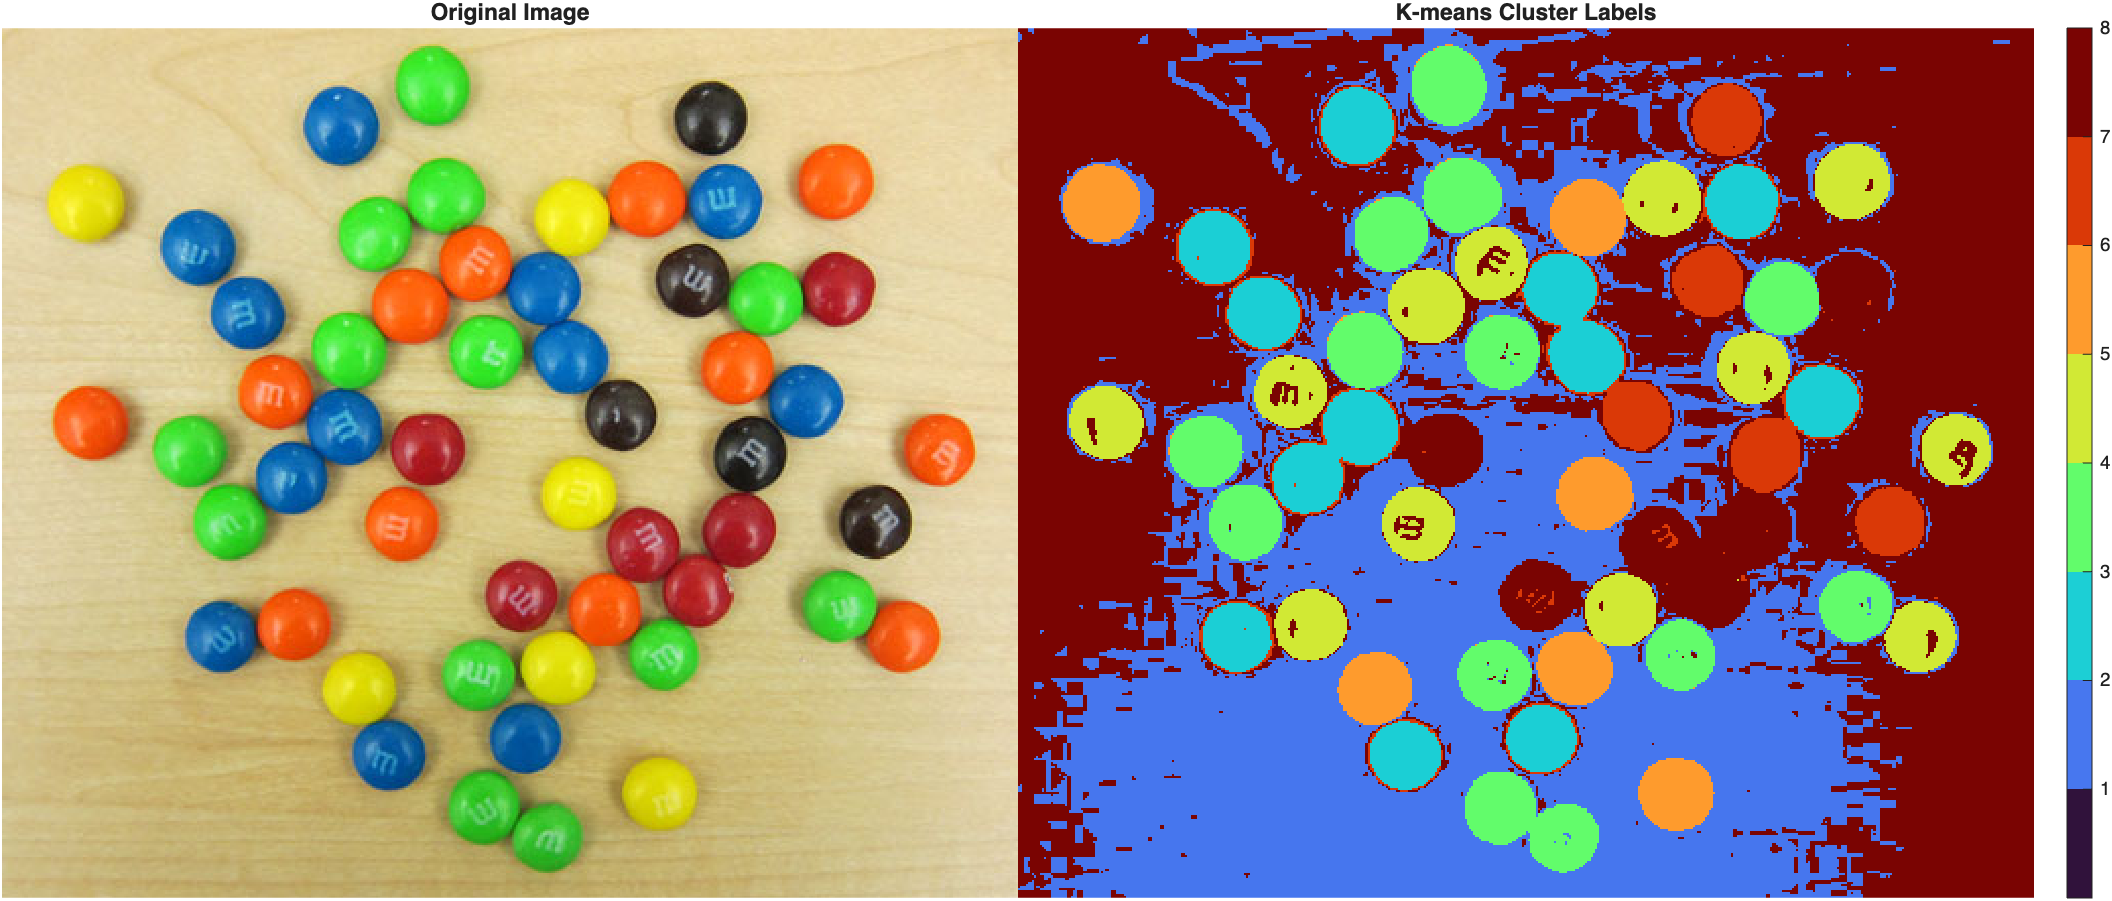
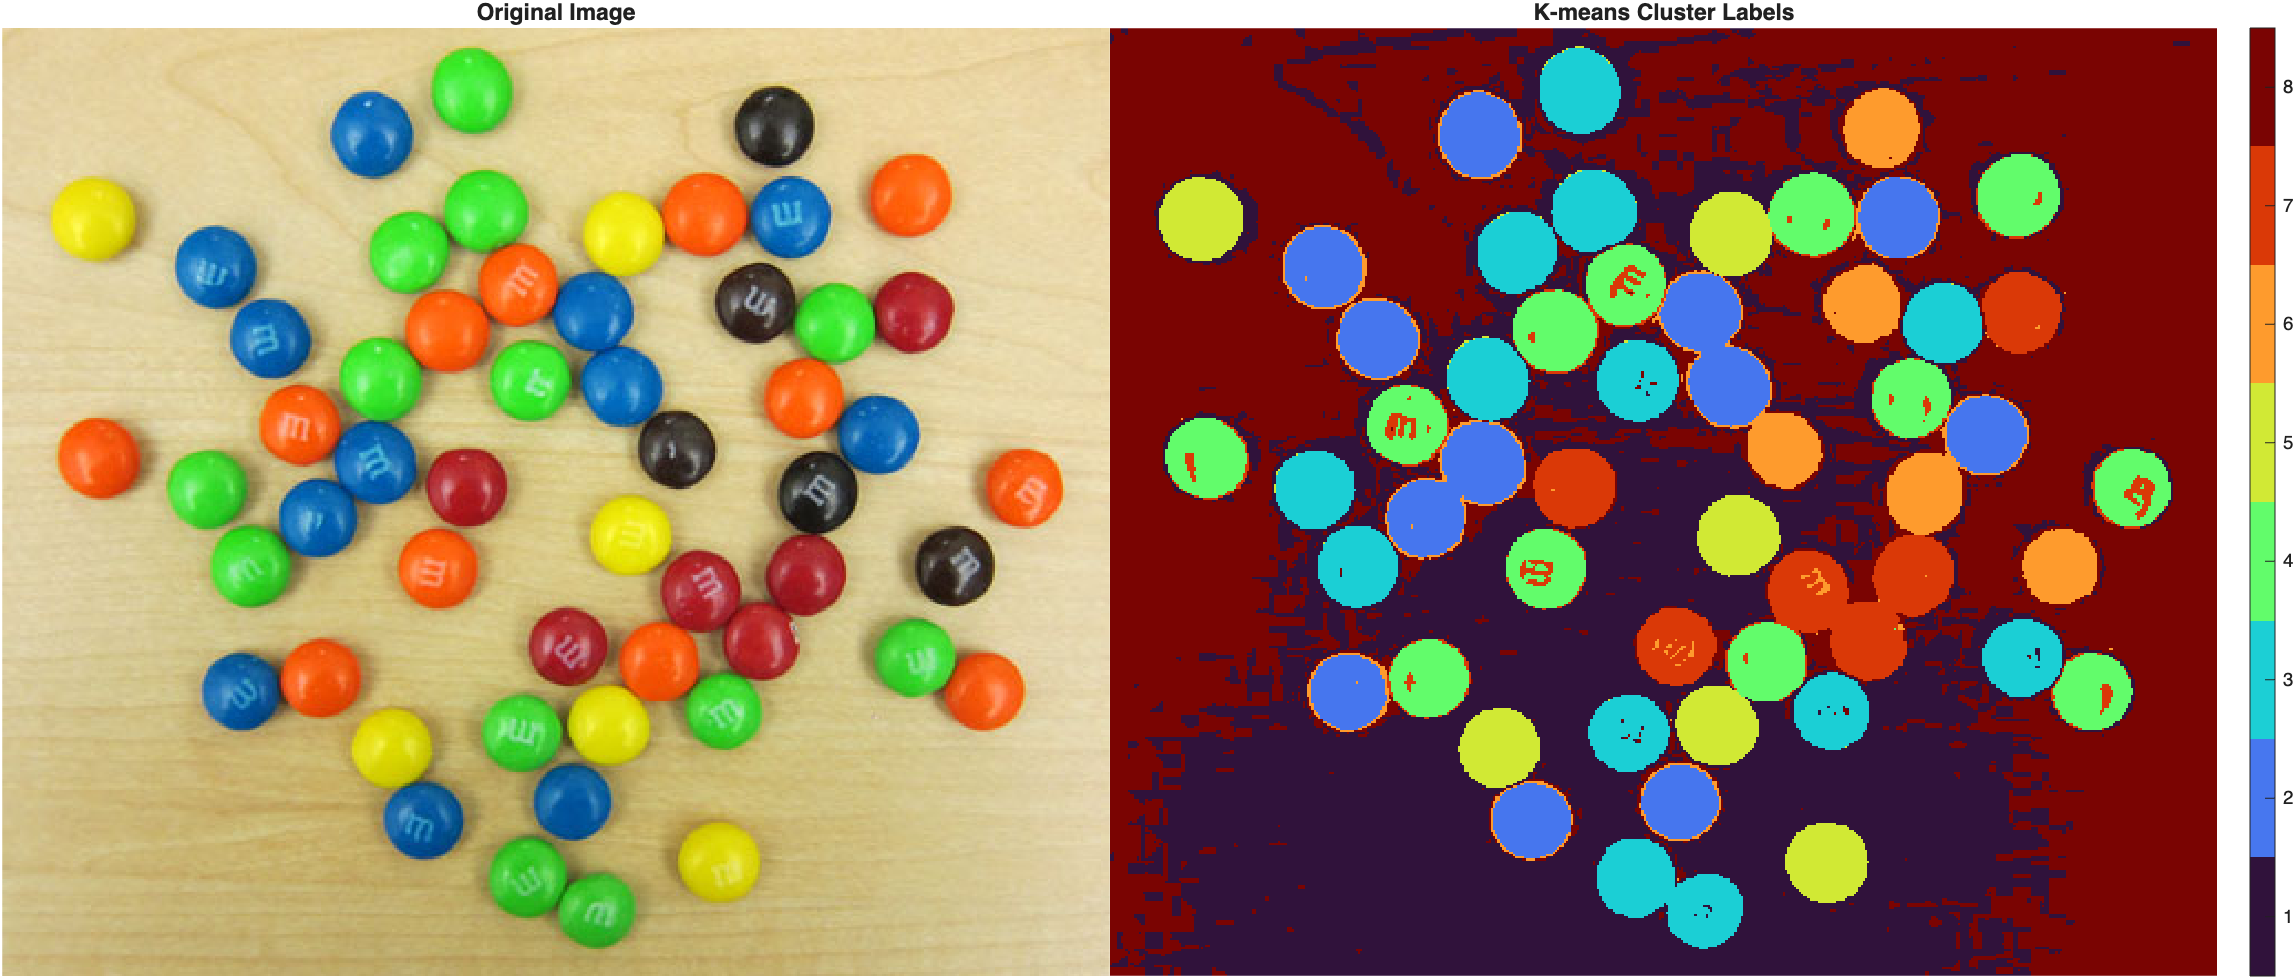
update kmeans labels plot and add code

diff --git a/docs/imageProcessing/ImageColorSegmentation.md b/docs/imageProcessing/ImageColorSegmentation.md
@@ -443,6 +443,30 @@ p.kLabel = imsegkmeans(p.ab,nColors,'NumAttempts',3); % try several starting poi
 
 >Each candy color is largely assigned to its own distinct cluster, and the table—whose appearance varies across the image—is split across more than one. Cluster numbers are **arbitrary**: cluster 4 doesn't inherently mean "yellow," it just means "the pixels k-means happened to group together as cluster 4" in this particular run.
 
+??? example "Code to create figure above"
+    ```matlab linenums="1"
+    figure
+
+    tiledlayout(1,2,"TileSpacing","none","Padding","tight")
+
+    ax(1) = nexttile;
+    imshow(p.rgb)
+    title("Original Image")
+
+    ax(2) = nexttile;
+    imshow(p.kLabel,[])
+    title("K-means Cluster Labels")
+
+    colormap(ax(2),turbo(nColors))
+
+    clim([0.5 nColors+0.5])
+    cb = colorbar;
+    cb.Ticks = 1:nColors;
+
+    impixelinfo
+    linkaxes(ax,"xy")
+    ```
+
 The same area heuristic used for the M&Ms' a\* classes also works for identifying the background clusters here, since the table again occupies the most total area, split across two clusters:
 
 ```matlab linenums="1" title="Identify background clusters, then build a mask"
